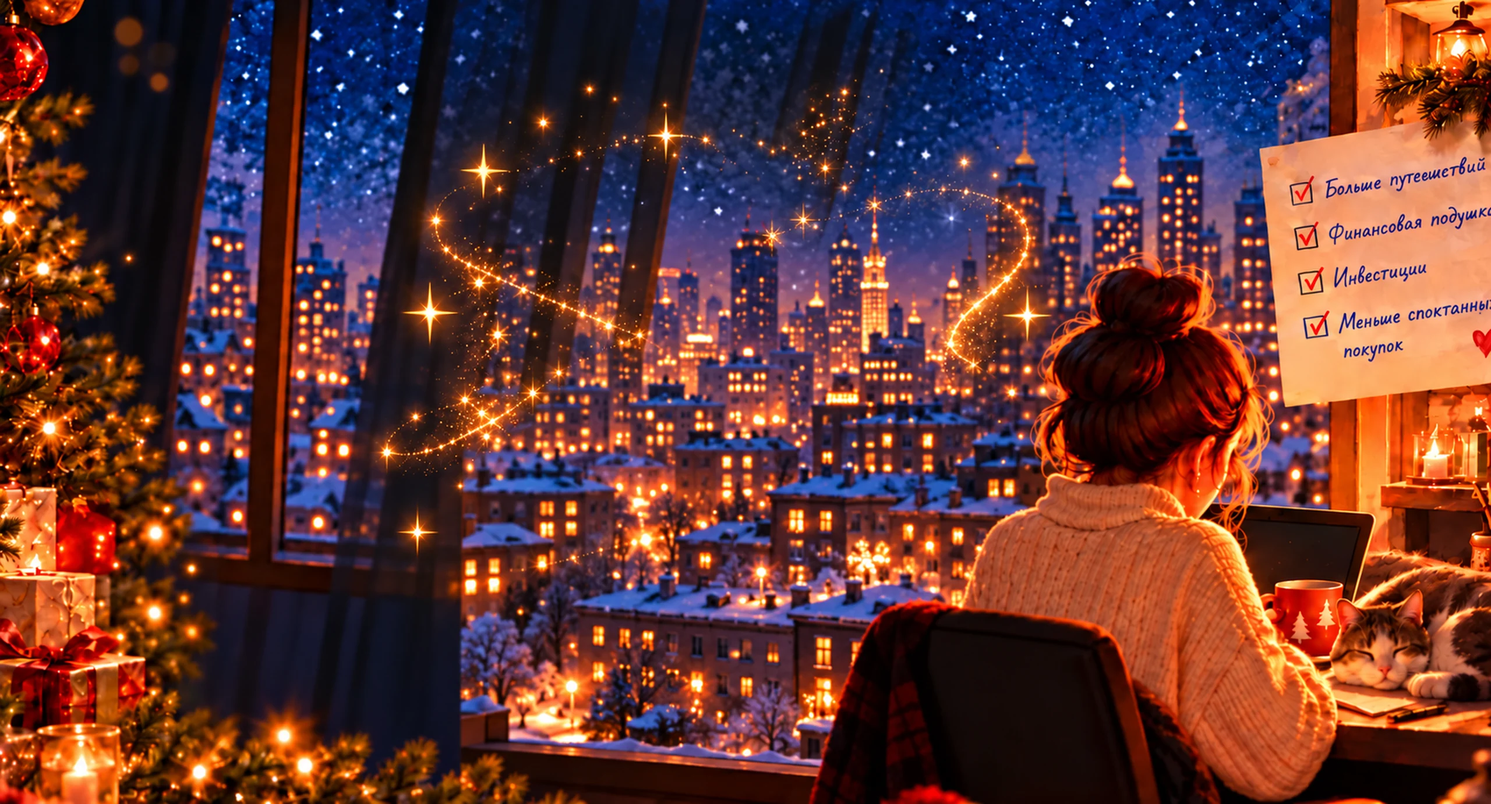
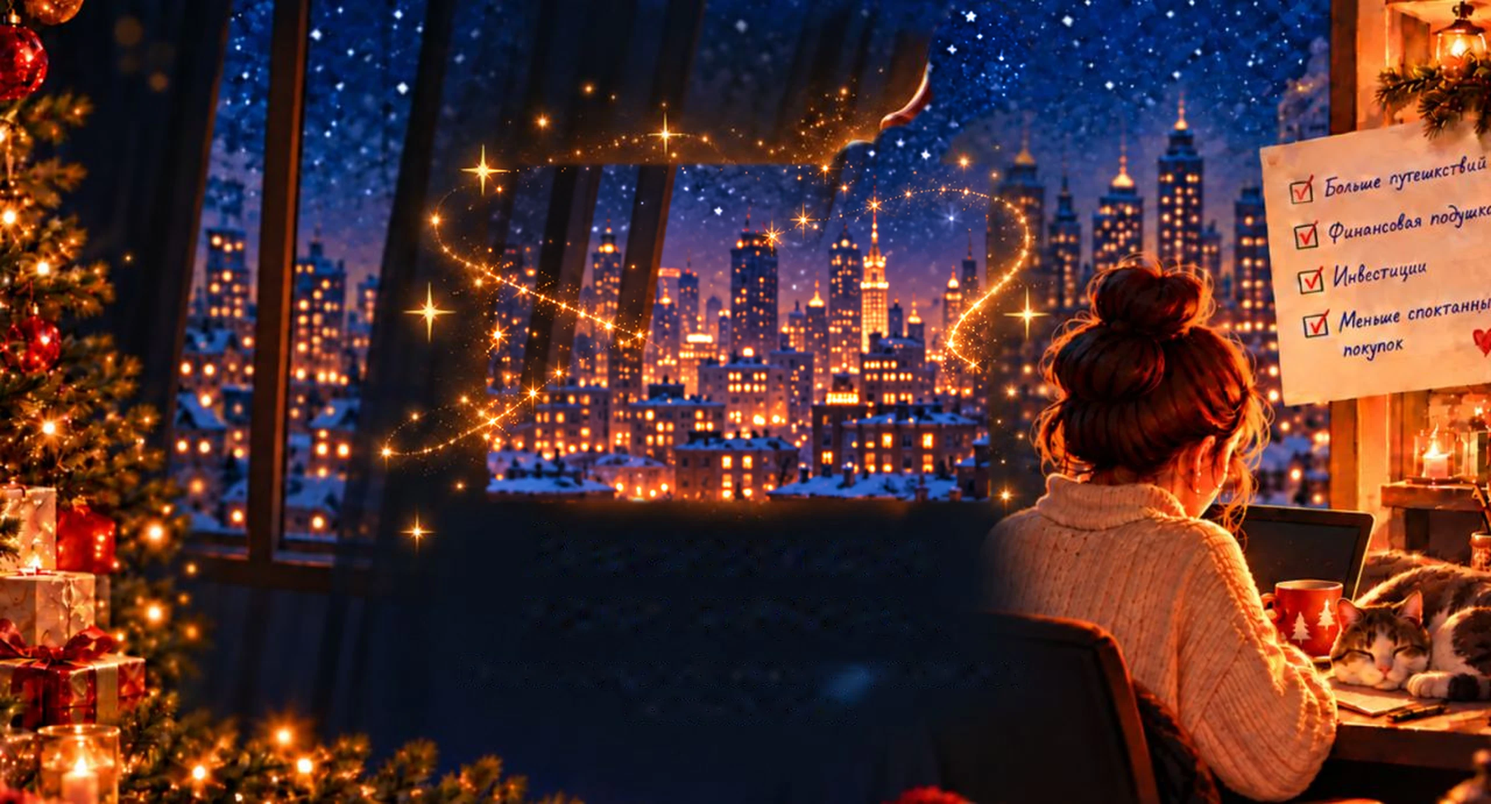
fix: match flap outline to customer reference

diff --git a/index.html b/index.html
@@ -1,29 +1,33 @@
 <meta charset="utf-8">
+<meta name="viewport" content="width=device-width, initial-scale=1">
 <title>Запечатанное письмо</title>
 <meta name="claude:viewport-fit-sides" content="cover">
 <link rel="preconnect" href="https://fonts.googleapis.com">
-<link href="https://fonts.googleapis.com/css2?family=Caveat:wght@500;700&display=swap" rel="stylesheet">
+<link href="https://fonts.googleapis.com/css2?family=PT+Serif&family=Montserrat:wght@400&display=swap" rel="stylesheet">
 <style>
 :root{--bg:#0b0f24;--fg:#f3e6cf;--btn:#c9923f;--btn-fg:#1b1206;color-scheme:dark}
 *{box-sizing:border-box}
 html,body{margin:0;background:var(--bg);color:var(--fg);font-family:system-ui,sans-serif}
 .wrap{max-width:1280px;margin:0 auto;padding-block:16px;padding-left:max(16px,env(safe-area-inset-left,0px));padding-right:max(16px,env(safe-area-inset-right,0px))}
 .frame{position:relative;width:100%;max-width:100%;aspect-ratio:1280/691;overflow:hidden;border-radius:12px}
-.stage{position:absolute;left:0;top:0;width:1280px;height:691px;transform-origin:0 0;background:url(bg.jpg) 0 0/1280px 691px}
+.stage{position:absolute;left:0;top:0;width:1280px;height:691px;transform-origin:0 0;background:url(assets/bg_clean.webp) 0 0/1280px 691px}
 .abs{position:absolute}
 #env{left:425px;top:148px;width:418px;height:275px}
-#back{inset:0;background:linear-gradient(180deg,#7a5532 0%,#b58a5a 55%,#cfa774 100%);box-shadow:inset 0 10px 30px rgba(0,0,0,.45)}
-#letter{left:34px;top:40px;width:350px;height:200px;z-index:2;background:linear-gradient(170deg,#fffaf0,#f4e8d2);border-radius:3px;box-shadow:0 6px 18px rgba(0,0,0,.35);padding:12px 20px;font-family:Caveat,cursive;color:#3b2a1f}
+#back{inset:0;background:url(assets/env_back_inner.webp) center/100% 100%}
+#letter{left:34px;top:40px;width:350px;height:200px;z-index:2;filter:drop-shadow(0 6px 8px rgba(0,0,0,.25))}
 #letter h3{margin:0 0 6px;font-size:25px;font-weight:700;color:#8a2d1d}
 #letter li{list-style:none;font-size:21px;line-height:1.22}
 #letter li:before{content:"☑ ";color:#b8322a}
 #letter ul{margin:0;padding:0}
-#pocket{inset:0;z-index:3;background:url(env.png) 0 0/418px 275px;clip-path:polygon(0 0,51.9% 152px,100% 0,100% 100%,0 100%)}
-#flapW{left:0;top:0;width:418px;height:153px;z-index:1;filter:drop-shadow(0 3px 3px rgba(60,30,0,.35))}
-#flap{position:absolute;inset:0;clip-path:polygon(0 0,100% 0,51.9% 100%);transform-origin:50% 0}
+#pocket{inset:0;z-index:3;background:url(assets/env_pocket.webp) 0 0/418px 275px}
+#flapW{left:0;top:0;width:418px;height:190px;z-index:1;filter:drop-shadow(0 3px 3px rgba(60,30,0,.35))}
+#flap{position:absolute;inset:0;clip-path:path('M 0 0 H 418 L 416 21 Q 415 28 408 34 L 225 185 Q 217 192 209 185 L 10 34 Q 3 28 2 20 Z');transform-origin:50% 0}
 #flap .f,#flap .b{position:absolute;inset:0}
-#flap .f{background:url(env.png) 0 0/418px 275px}
-#flap .b{background:linear-gradient(0deg,#c9a06c,#e3c69a)}
+#flap .f{background:url(assets/flap_outer.webp) center/100% 100%}
+#flap .b{background:url(assets/flap_inner.webp) center/100% 100%}
+.copy{position:absolute;left:370px;top:443px;width:540px;text-align:center;color:#f3efdb;text-shadow:0 2px 12px #080e20}
+.copy h1{font:400 54px/1 'PT Serif',Georgia,serif;margin:0 0 16px}
+.copy p{font:400 25px/1.25 Montserrat,Arial,sans-serif;margin:0;color:#cfd0da}
 #glow{left:542px;top:200px;width:200px;height:200px;border-radius:50%;background:radial-gradient(circle,rgba(255,214,140,.95) 0,rgba(255,170,60,.45) 30%,transparent 70%);opacity:0;z-index:6;mix-blend-mode:screen;pointer-events:none}
 #seal{left:161px;top:96px;width:112px;height:112px;z-index:5;opacity:0}
 #stamp{left:705px;top:5px;width:180px;height:195px;z-index:7;filter:drop-shadow(0 10px 12px rgba(0,0,0,.45))}
@@ -38,15 +42,13 @@ button:focus-visible{outline:2px solid var(--fg);outline-offset:3px}
       <div class="abs" id="env">
         <div class="abs" id="back"></div>
         <div class="abs" id="flapW"><div id="flap"><div class="b"></div><div class="f"></div></div></div>
-        <div class="abs" id="letter">
-          <h3>Мои планы на год</h3>
-          <ul><li>Больше путешествий</li><li>Финансовая подушка</li><li>Инвестиции</li><li>Меньше спонтанных покупок</li></ul>
-        </div>
+        <img class="abs" id="letter" src="assets/letter.webp" alt="Больше путешествий; Финансовая подушка; Инвестиции; Меньше спонтанных покупок">
         <div class="abs" id="pocket"></div>
-        <img class="abs" id="seal" src="seal.png" alt="">
+        <img class="abs" id="seal" src="assets/seal.webp" alt="">
       </div>
       <div class="abs" id="glow"></div>
-      <img class="abs" id="stamp" src="stamp.png" alt="">
+      <img class="abs" id="stamp" src="assets/stamp.webp" alt="">
+      <div class="copy" lang="ru"><h1>Запечатываем<br>ваше письмо…</h1><p>Планы внутри. Впереди — целый год возможностей.</p></div>
     </div>
   </div>
   <div class="bar"><button id="replay">Повторить</button></div>

diff --git a/tools/match_reference.py b/tools/match_reference.py
@@ -1,0 +1,51 @@
+"""Keep reference composition while using generated pixels in removed regions.
+
+Run once after prepare_assets.py. Generated textures repair the old blurred
+seal region; original scene pixels outside removed objects remain unchanged.
+"""
+from pathlib import Path
+import cv2
+import numpy as np
+from PIL import Image, ImageDraw
+
+ROOT=Path(__file__).resolve().parent.parent
+A=ROOT/'assets'
+ref=np.array(Image.open(ROOT/'reference.jpg').convert('RGB'))
+generated=np.array(Image.open(A/'bg_clean.png').convert('RGB').resize((1280,691)))
+mask=np.zeros((691,1280),np.uint8)
+mask[145:426,422:845]=255
+stamp=np.array(Image.open(ROOT/'stamp.png').convert('RGBA'))[:,:,3]
+mask[5:200,705:885]=np.maximum(mask[5:200,705:885],stamp)
+mask=cv2.dilate(mask,np.ones((9,9),np.uint8))
+blend=cv2.GaussianBlur(mask,(9,9),0).astype(float)[:,:,None]/255
+bg=ref*(1-blend)+generated*blend
+# Text sits on a nearly flat navy area. Remove just glyphs, not the scene.
+textmask=np.zeros(mask.shape,np.uint8)
+gray=cv2.cvtColor(ref,cv2.COLOR_RGB2GRAY)
+textmask[448:622,390:889]=(gray[448:622,390:889]>95).astype(np.uint8)*255
+textmask=cv2.dilate(textmask,np.ones((5,5),np.uint8))
+bg=cv2.inpaint(bg.astype(np.uint8),textmask,5,cv2.INPAINT_TELEA)
+
+def save(name,im,size):
+    im=im.resize(size,Image.Resampling.LANCZOS)
+    im.save(A/(name+'.png'))
+    im.save(A/(name+'.webp'),quality=90,method=6)
+
+save('bg_clean',Image.fromarray(bg),(2560,1382))
+base=np.array(Image.open(ROOT/'env.png').convert('RGB')).astype(float)
+tex=np.array(Image.open(A/'env_back_inner.png').convert('RGB').resize((418,275))).astype(float)
+detail=tex-cv2.GaussianBlur(tex,(0,0),3)
+repair=np.zeros((275,418),np.uint8)
+cv2.circle(repair,(217,152),65,255,-1)
+repair=cv2.GaussianBlur(repair,(31,31),0)[:,:,None]/255
+paper=np.clip(base+detail*repair,0,255).astype(np.uint8)
+for name,size,points in [
+    ('env_pocket',(836,550),[(0,0),(217,152),(418,0),(418,275),(0,275)]),
+    ('flap_outer',(836,306),[(0,0),(418,0),(217,153)])]:
+    height=275 if name=='env_pocket' else 153
+    im=Image.fromarray(paper[:height]).convert('RGBA')
+    alpha=Image.new('L',(418*4,height*4))
+    ImageDraw.Draw(alpha).polygon([(x*4,y*4) for x,y in points],fill=255)
+    im.putalpha(alpha.resize(im.size,Image.Resampling.LANCZOS))
+    save(name,im,size)
+print('Reference composition retained; generated detail restores seal patch.')

diff --git a/tools/reshape_flap.py b/tools/reshape_flap.py
@@ -1,0 +1,33 @@
+"""Apply the customer's five-sided flap outline (2026-10-22)."""
+from pathlib import Path
+import cv2
+import numpy as np
+from PIL import Image, ImageDraw
+import io, subprocess
+
+A=Path(__file__).resolve().parent.parent/'assets'
+for name in ('flap_outer','flap_inner'):
+    path=A/(name+'.png')
+    if name=='flap_outer':
+        im=Image.open(A.parent/'env.png').crop((0,0,418,153)).convert('RGBA')
+    else:
+        im=Image.open(io.BytesIO(subprocess.check_output(['git','show','48e41c7:assets/flap_inner.png'],cwd=A.parent))).convert('RGBA')
+    src=np.array(im.resize((836,306)))
+    yy,xx=np.mgrid[:380,:836].astype(np.float32)
+    sy=yy/380*305
+    # Map each horizontal cross-section to the old triangular texture.
+    fraction=sy/306
+    left=434*fraction
+    right=836-(836-434)*fraction
+    new_fraction=np.maximum(0,(yy-64)/316)
+    new_left=434*new_fraction
+    new_right=836-(836-434)*new_fraction
+    sx=left+(xx-new_left)/np.maximum(1,new_right-new_left)*(right-left)
+    sx=np.clip(sx,left+2,np.maximum(left+2,right-3)).astype(np.float32)
+    rgb=cv2.remap(src[:,:,:3],sx,sy.astype(np.float32),cv2.INTER_LINEAR,borderMode=cv2.BORDER_REPLICATE)
+    alpha=Image.new('L',(3344,1520))
+    ImageDraw.Draw(alpha).polygon([(0,0),(3344,0),(3344,256),(1736,1520),(0,256)],fill=255)
+    result=Image.fromarray(rgb).convert('RGBA')
+    result.putalpha(alpha.resize((836,380),Image.Resampling.LANCZOS))
+    result.save(path)
+    result.save(A/(name+'.webp'),quality=90,method=6)

diff --git a/ПЛАН.md b/ПЛАН.md
@@ -5,6 +5,9 @@
 - 2026-10-21 Демо з шарів, вирізаних з reference (OpenCV), GSAP-таймлайн, публікація артефакту
 
 ## В роботі 🔄
+- Уточнення після огляду reference: плечі клапана м'яко заокруглені, перехід до скосів на ~28–34 px; кінчик прихований печаткою, його точну форму не можна встановити. Використовуємо плавний п'ятикутний контур, не строгий трикутник і не ламану з гострими плечима.
+- 2026-10-22 Замовник схвалив загальний вигляд поточної анімації. Уточнення за червоним контуром: клапан п'ятикутний, короткі бокові ребра 32 px, вершина на 190 px від шарніра. Це свідоме відхилення від початкового трикутника 153 px; PNG обох сторін тепер 836×380. Решту композиції на цьому кроці не змінюємо.
+- Згенеровано 9 шарів, інтегровано desktop і живий текст. Мобільна композиція та dist ще не готові. Перед уточненням клапана diff: all=6.11, envelope=8.81; початкові пороги не виконані. Не видавати поточний вигляд за pixel-identical reference.
 - 2026-10-22 Передано Codex: чисті шари, мобільна версія, блок `dist/`
 
 ## Заплановано 📋
